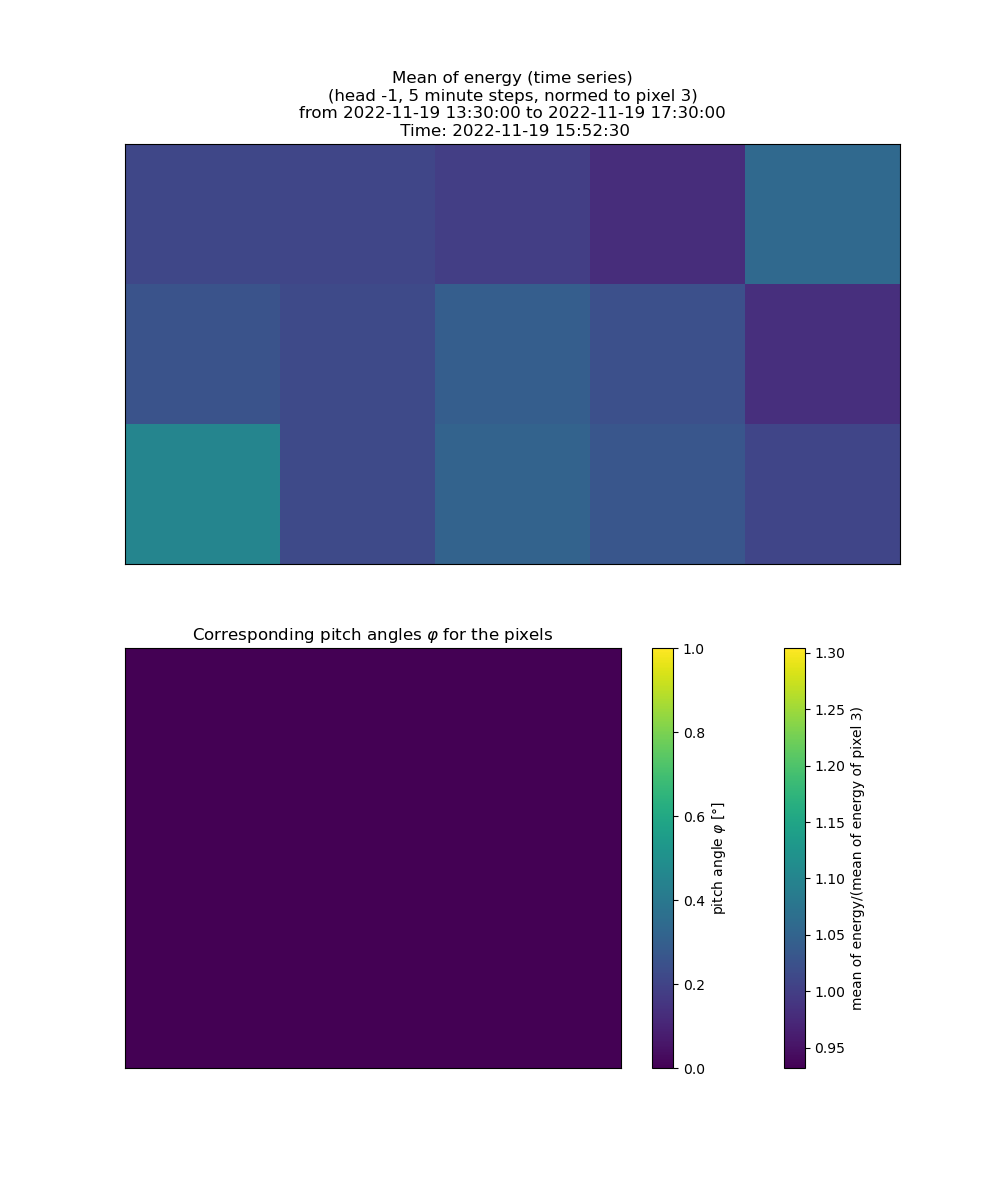
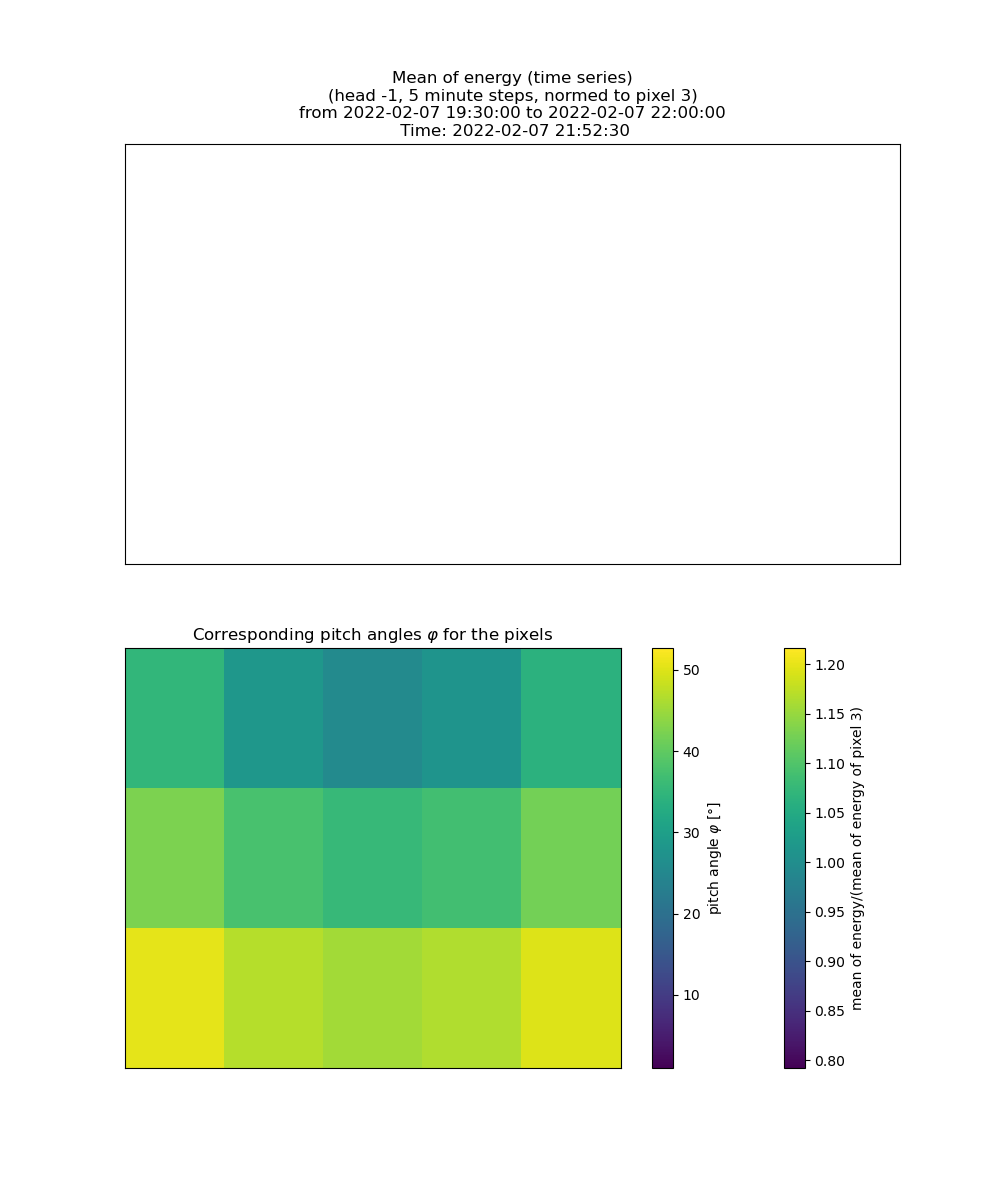
Funktionieren Pitchwinkel???

diff --git a/analyze_data.py b/analyze_data.py
@@ -44,8 +44,18 @@ pixel_list = [i for i in range(1,16)] # [4,9,14]
 
 
 
+'''Untersuchung von Events zu denen Magnetfeldaten vorliegen'''
 
-# Versuch Magnetfeld mit darzustellen und rauszurechnen...
+'''Ereignisse vor Mitte April 2022'''
+
+dat = STEP(2022,2,7)
+
+box_list=[[[35,65],[12,23]],[[40,85],[8,12]],[[55,100],[2,8]]]
+period=[dt.datetime(2022,2,7,19,30),dt.datetime(2022,2,7,22)]
+
+dat.evolution_energy_means_ts(filename='22_02_07.png',head=-1,norm='tmax',save='etracks_test/',period=period,box_list=box_list,pixel_list = pixel_list,norm_pixel=3)
+dat.wrapper_distribution_ring('22_02_07_electrons', head=-1, norm='tmax', period=period, box_list=box_list, norm_pixel=3)
+
 
 # dat = STEP(2021,12,4)
 
@@ -56,13 +66,13 @@ pixel_list = [i for i in range(1,16)] # [4,9,14]
 # dat.wrapper_distribution_ring('21_12_04_electrons', head=-1, norm='tmax', period=period, box_list=box_list, norm_pixel=3)
 
 
-dat = STEP(2022,11,19)
+# dat = STEP(2022,11,19)
 
-box_list=[[[25,50],[28,35]],[[30,60],[23,28]],[[35,70],[18,23]],[[40,110],[12,18]],[[60,165],[2,12]]]
-period = [dt.datetime(2022,11,19,13,30),dt.datetime(2022,11,19,17,30)]
+# box_list=[[[25,50],[28,35]],[[30,60],[23,28]],[[35,70],[18,23]],[[40,110],[12,18]],[[60,165],[2,12]]]
+# period = [dt.datetime(2022,11,19,13,30),dt.datetime(2022,11,19,17,30)]
 
-dat.evolution_energy_means_ts(filename='22_11_19.png',head=-1,norm='tmax',save='etracks_test/',period=period,box_list=box_list,pixel_list = pixel_list,norm_pixel=3)
-dat.wrapper_distribution_ring('22_11_19_electrons', head=-1, norm='tmax', period=period, box_list=box_list, norm_pixel=3)
+# dat.evolution_energy_means_ts(filename='22_11_19.png',head=-1,norm='tmax',save='etracks_test/',period=period,box_list=box_list,pixel_list = pixel_list,norm_pixel=3)
+# dat.wrapper_distribution_ring('22_11_19_electrons', head=-1, norm='tmax', period=period, box_list=box_list, norm_pixel=3)
 
 
 # dat = STEP(2022,12,1)
@@ -83,13 +93,20 @@ dat.wrapper_distribution_ring('22_11_19_electrons', head=-1, norm='tmax', period
 # dat.wrapper_distribution_ring('22_12_12_electrons', head=-1, norm='tmax', period=period, box_list=box_list, norm_pixel=3)
 
 
-dat = STEP(2022,12,24)
+# dat = STEP(2022,12,24)
 
-box_list=[[[20,35],[35,40]],[[25,40],[30,35]],[[28,50],[23,30]],[[33,58],[17,23]],[[40,64],[12,17]],[[45,75],[8,12]],[[50,80],[2,8]]]
-period = [dt.datetime(2022,12,24,4),dt.datetime(2022,12,24,6)]
+# box_list=[[[20,35],[35,40]],[[25,40],[30,35]],[[28,50],[23,30]],[[33,58],[17,23]],[[40,64],[12,17]],[[45,75],[8,12]],[[50,80],[2,8]]]
+# period = [dt.datetime(2022,12,24,4),dt.datetime(2022,12,24,6)]
 
-dat.evolution_energy_means_ts(filename='22_12_24.png',head=-1,norm='tmax',save='etracks_test/',period=period,box_list=box_list,pixel_list = pixel_list,norm_pixel=3)
-dat.wrapper_distribution_ring('22_12_24_electrons', head=-1, norm='tmax', period=period, box_list=box_list, norm_pixel=3)
+# dat.evolution_energy_means_ts(filename='22_12_24.png',head=-1,norm='tmax',save='etracks_test/',period=period,box_list=box_list,pixel_list = pixel_list,norm_pixel=3)
+# dat.wrapper_distribution_ring('22_12_24_electrons', head=-1, norm='tmax', period=period, box_list=box_list, norm_pixel=3)
+
+
+
+
+
+
+
 
 
 
